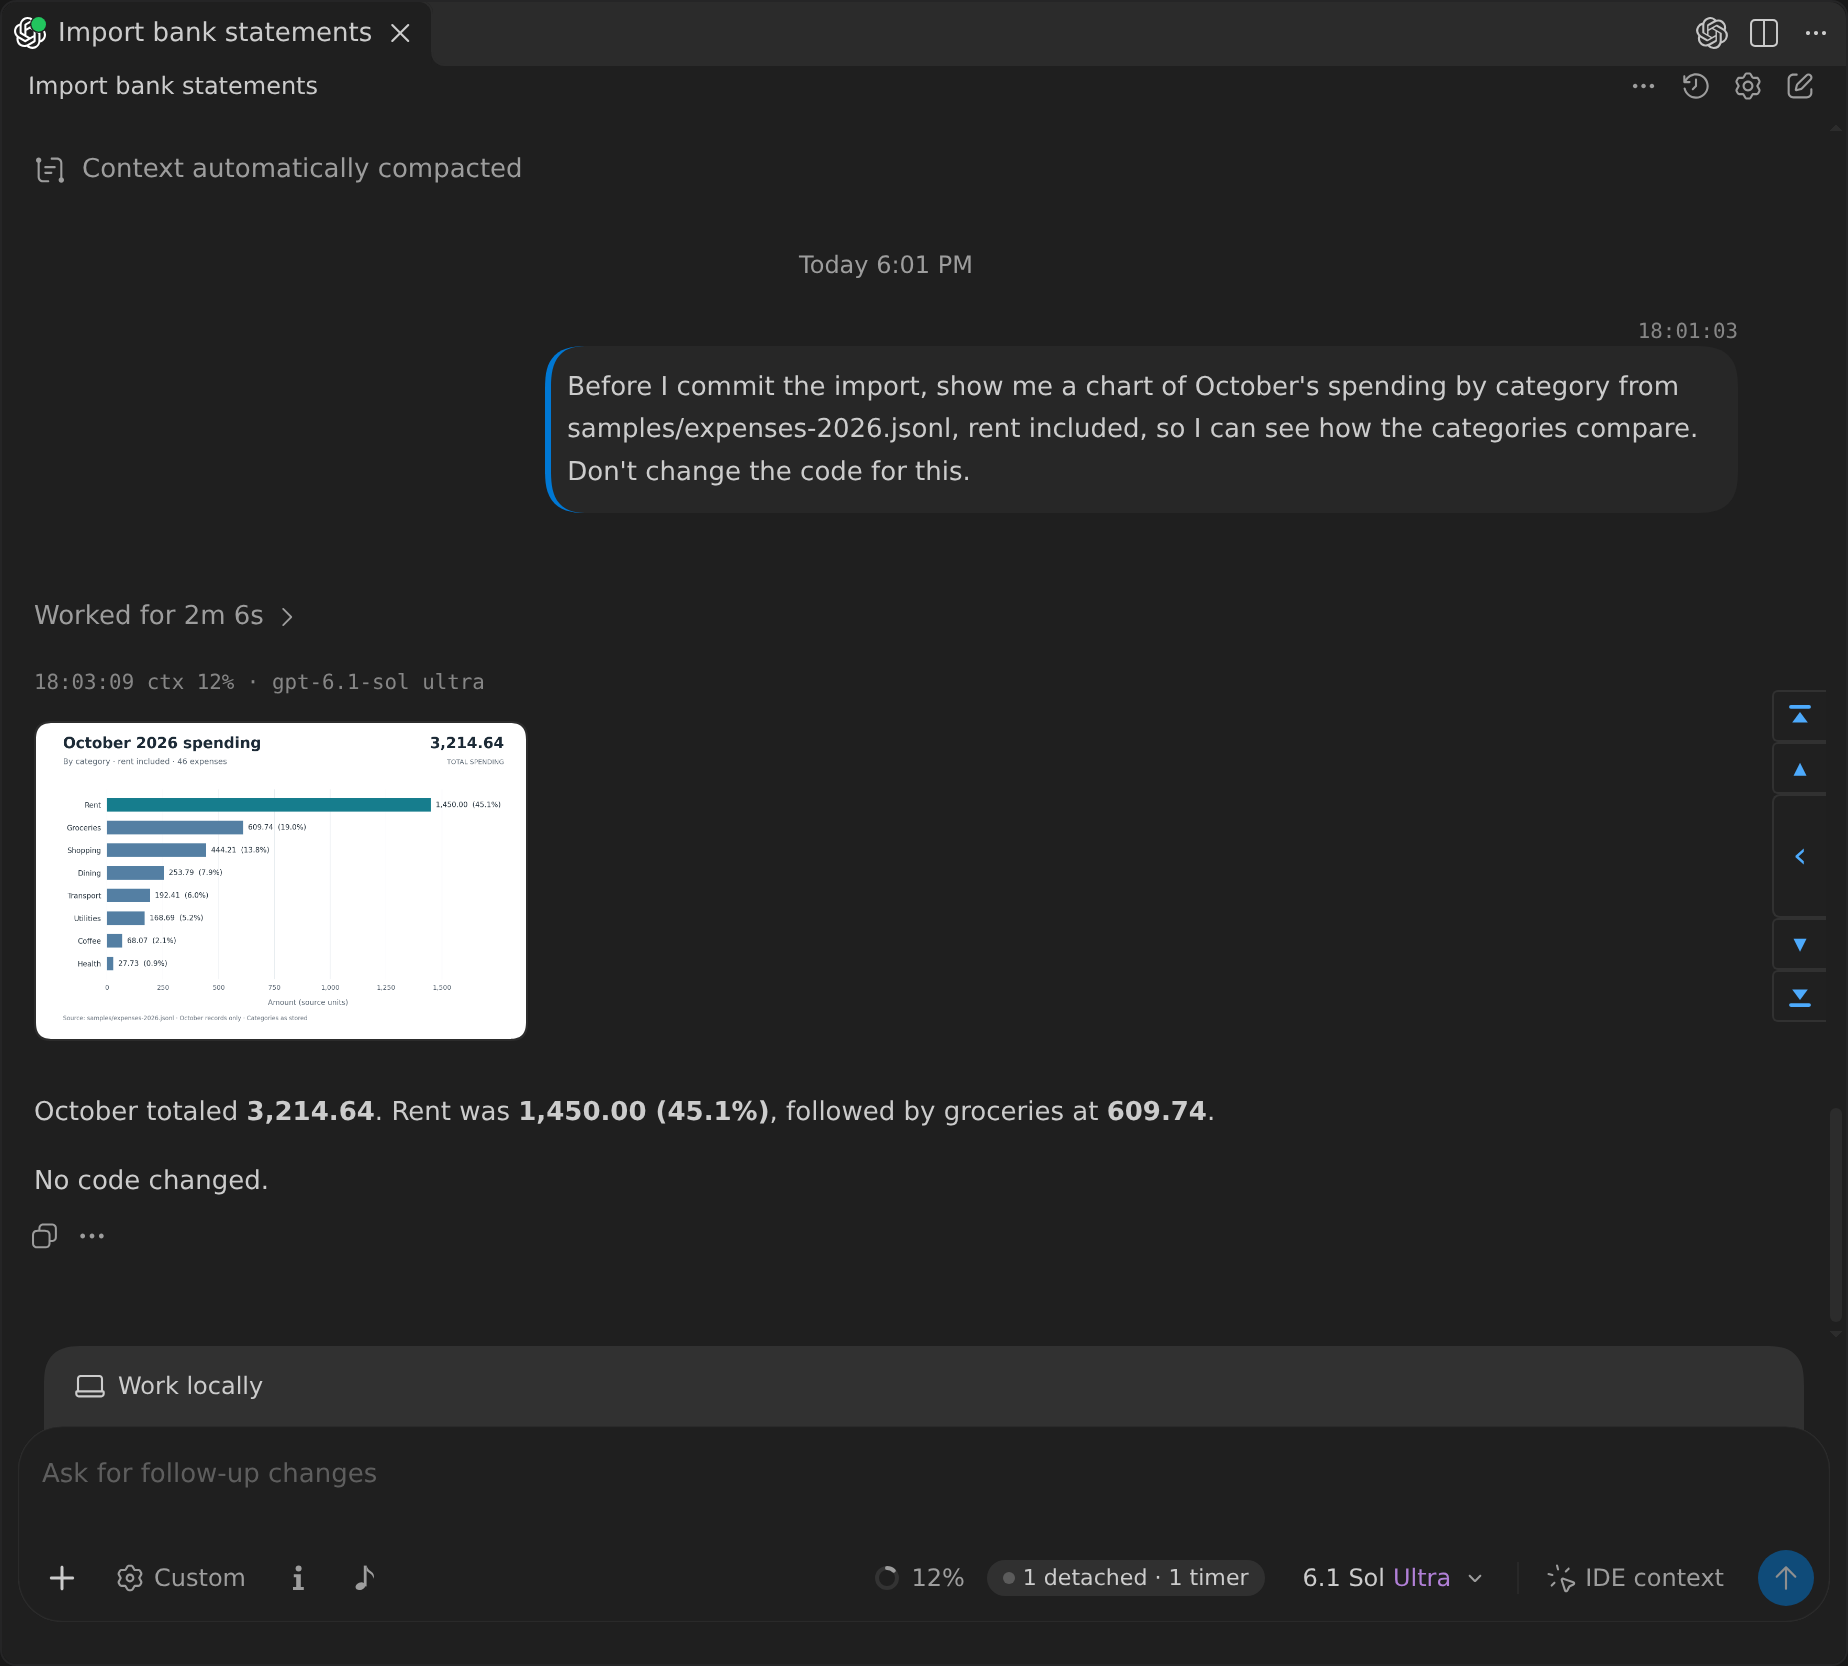
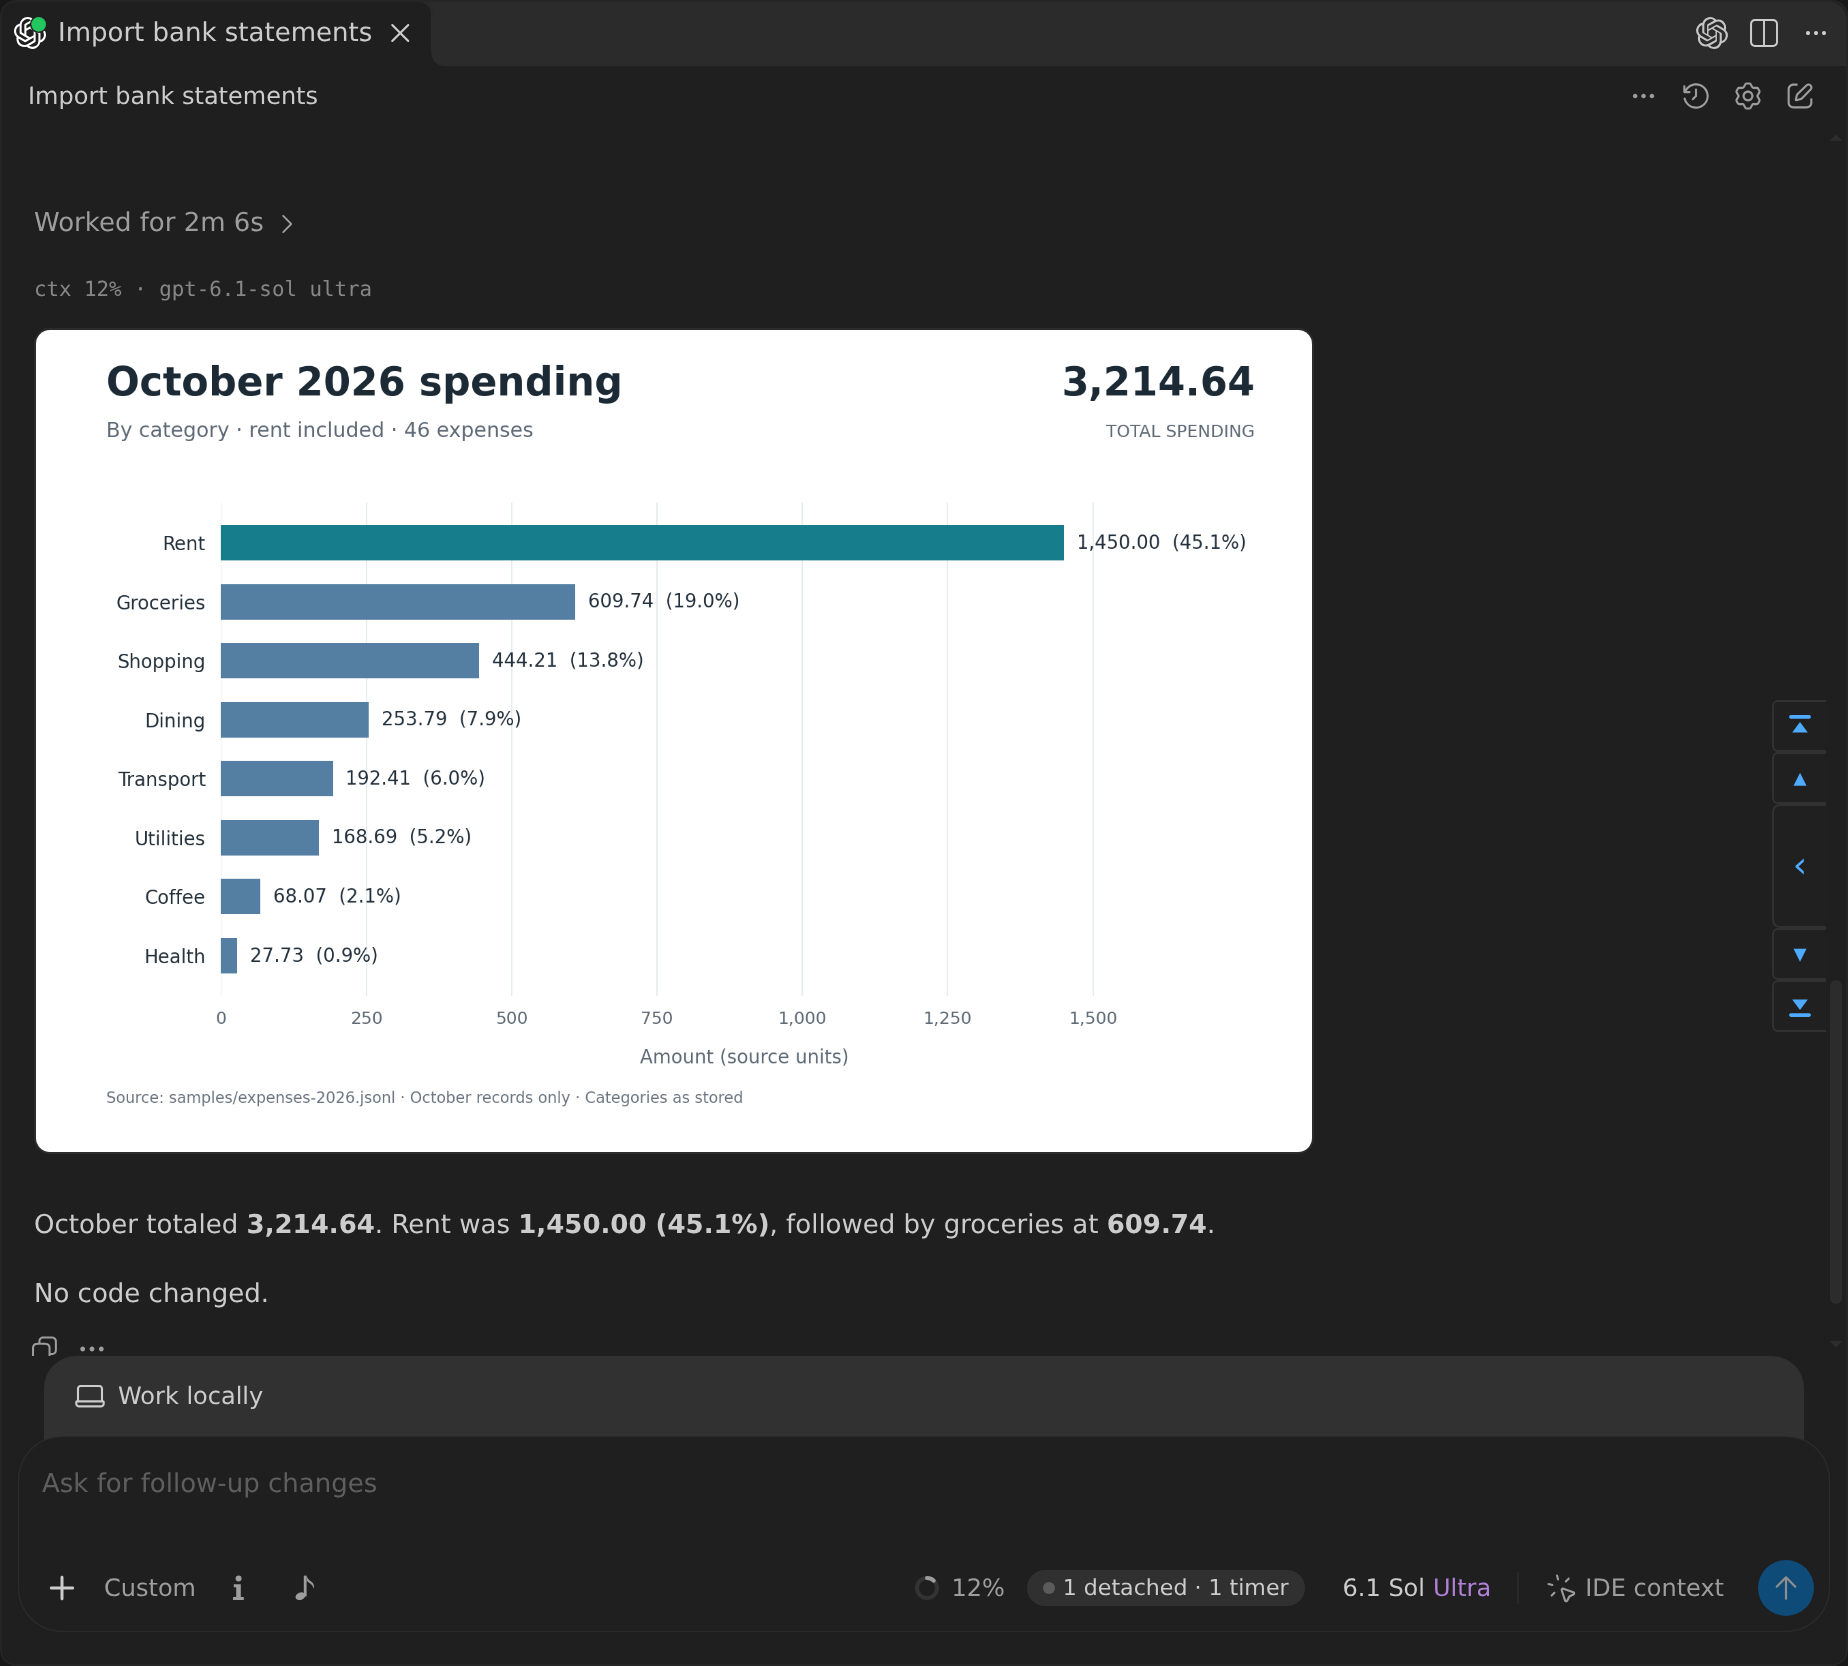
Draw a reply's image up to 640 by 480 px and 70% of the panel's height instead of Codex's 10rem thumbnail, and retake the README's shot of it

diff --git a/test/parts/60g-reply-images.js b/test/parts/60g-reply-images.js
@@ -5,7 +5,8 @@
 'use strict';
 /*
  * An image at a web address becomes a plain link whatever codexPlus.replyImages says, and the other images in a reply
- * become "[Image]" while it is off (src/page/codex-extras-page.js fixImages).
+ * become "[Image]" while it is off, and a reply's image is drawn larger than Codex's thumbnail (src/page/codex-extras-page.js
+ * fixImages).
  *
  * Each media element carries the props React would keep on it, in the shape Codex's markdown media component passes
  * them, since that is where the script reads the address from.
@@ -72,6 +73,10 @@ module.exports = async ({ eq, root }) => {
     + 'becomes a plain link named by its alt text or else its address');
   page.view();
   eq(reply.querySelectorAll('[data-codex-extras="img-stand"]').length, 2, 'another pass adds nothing more');
+  const sheet = dom.document.head.querySelector('style[data-codex-extras="img-stand"]');
+  eq(sheet.textContent.includes('[data-response-annotation-target] img[class*="max-h-["]{max-height:min(480px,70vh) !important;'
+    + 'max-width:min(100%,640px) !important;width:auto !important;height:auto !important;}'), true,
+  "an image Codex draws as a thumbnail in a reply is shown up to 640 by 480 px and 70% of the panel's height, and no larger than it is");
 
   page.view({ replyImages: false });
   eq(read(), [

diff --git a/src/page/codex-extras-page.js b/src/page/codex-extras-page.js
@@ -2443,7 +2443,11 @@
     if (on && document.head && !one(document, 'style[' + MARK + '="' + IMG_STAND + '"]')) {
       var css = document.createElement('style');
       css.setAttribute(MARK, IMG_STAND);
-      css.textContent = '[' + IMG_HIDDEN + ']{display:none !important;}';
+      /* Codex caps a reply's image at 10rem high, too small to read a chart in. The cap here is 640 by 480 px, the size
+         of a matplotlib figure saved with the defaults, and 70% of the panel's height. */
+      css.textContent = '[' + IMG_HIDDEN + ']{display:none !important;}'
+        + SEL.assistant + ' img[class*="max-h-["]{max-height:min(480px,70vh) !important;max-width:min(100%,640px) !important;'
+        + 'width:auto !important;height:auto !important;}';
       document.head.appendChild(css);
     }
     var found = on ? all(document, SEL.assistant + ' img,' + SEL.assistant + ' button[disabled]') : [];

diff --git a/README.md b/README.md
@@ -84,6 +84,8 @@ Codex's VS Code panel shows images linked by absolute local paths, `file://` URL
 
 ![A Codex reply showing a bar chart the model saved as a PNG file](images/shots/images-in-replies.png)
 
+In Codex, reply images are thumbnails up to 10rem high. The patch displays each image at its own size, scaling it down as needed to fit within 640 by 480 pixels and 70% of the panel's height.
+
 Whether the setting is on or off, the patch shows a web image as a plain link. The link text is the image's alt text, or its address if there is no alt text. Codex Plus does not fetch it. With a ChatGPT login, Codex checks the address with OpenAI's service and can load the image before the patch turns it into a link. Turn `codexPlus.replyImages` off and the patch shows other images as `[Image]`, with the path on hover. If it sent the note earlier in the conversation, it tells the model in the next message that the panel no longer shows images. The setting has no effect when `codexPlus.enabled` is off.
 
 ## Skill search
